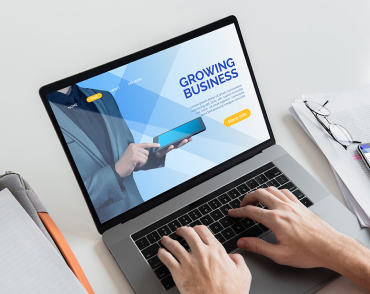
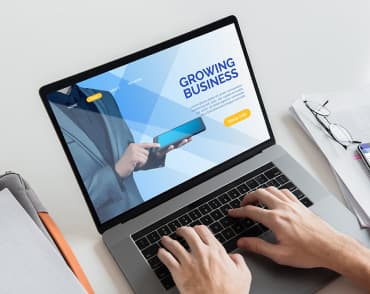
оптимизирует изображения

diff --git a/index.html b/index.html
@@ -14,7 +14,7 @@
     <header>
         <nav>
             <a href="./index.html">
-                <span>WebStudio</span>
+                Web<span>Studio</span>
             </a>
             
             <ul>
@@ -50,6 +50,7 @@
 
         <!-- Особенности -->
         <section>
+            <h2>Наши преимущества</h2>
             <ul>
                 <li>
                     <h3>Внимание к деталям</h3>
@@ -90,22 +91,22 @@
 
             <ul>
                 <li>
-                    <img src="./images/МихаилЕрмаков.jpg" alt="Игорь Демьяненко" width="270">
+                    <img src="./images/ihor.jpg" alt="Игорь Демьяненко" width="270">
                     <h3>Игорь Демьяненко</h3>
                     <p>Product Designer</p>
                 </li>
                 <li>
-                    <img src="./images/ОльгаРепина.jpg" alt="Ольга Репина" width="270">
+                    <img src="./images/olha.jpg" alt="Ольга Репина" width="270">
                     <h3>Ольга Репина</h3>
                     <p>Frontend Developer</p>
                 </li>
                 <li>
-                    <img src="./images/НиколайТарасов.jpg" alt="Николай Тарасов" width="270">
+                    <img src="./images/nikolay.jpg" alt="Николай Тарасов" width="270">
                     <h3>Николай Тарасов</h3>
                     <p>Marketing</p>
                 </li>
                 <li>
-                    <img src="./images/МихаилЕрмаков.jpg" alt="Михаил Ермаков" width="270">
+                    <img src="./images/mihail.jpg" alt="Михаил Ермаков" width="270">
                     <h3>Михаил Ермаков</h3>
                     <p>UI Designer</p>
                 </li>
@@ -116,13 +117,16 @@
     <!-- Footer -->
     <footer>
         <a href="./index.html">
-            <span>WebStudio</span>
+            Web<span>Studio</span>
         </a>
 
         
         <address>
-            г. Киев, пр-т Леси Украинки, 26
+            
             <ul>
+                <li>
+                    <a href="https://goo.gl/maps/izuGYMJUY2H6Dhw59">г. Киев, пр-т Леси Украинки, 26</a>
+                </li>
                 <li>
                     <a href="mailto:info@example.com">info@example.com</a>
                 </li>

diff --git a/portfolio.html b/portfolio.html
@@ -14,14 +14,14 @@
     <header>
         <nav>
             <a href="">
-                <span>Web</span>Studio
+                Web<span>Studio</span>
             </a>
     
-            <>
+            <ul>
                 <li><a href="./index.html">Студия</a></li>
                 <li><a href="./portfolio.html">Портфолио</a></li>
                 <li><a href="">Контакты</a></li>
-            </>
+            </ul>
         </nav>
     
         <ul>
@@ -121,13 +121,16 @@
     <!-- Footer -->
     <footer>
         <a href="./index.html">
-            <span>Web</span>Studio
+            Web<span>Studio</span>
         </a>
     
     
         <address>
-            г. Киев, пр-т Леси Украинки, 26
+            
             <ul>
+                <li>
+                    <a href="https://goo.gl/maps/izuGYMJUY2H6Dhw59">г. Киев, пр-т Леси Украинки, 26</a>
+                </li>
                 <li>
                     <a href="mailto:info@example.com">info@example.com</a>
                 </li>
